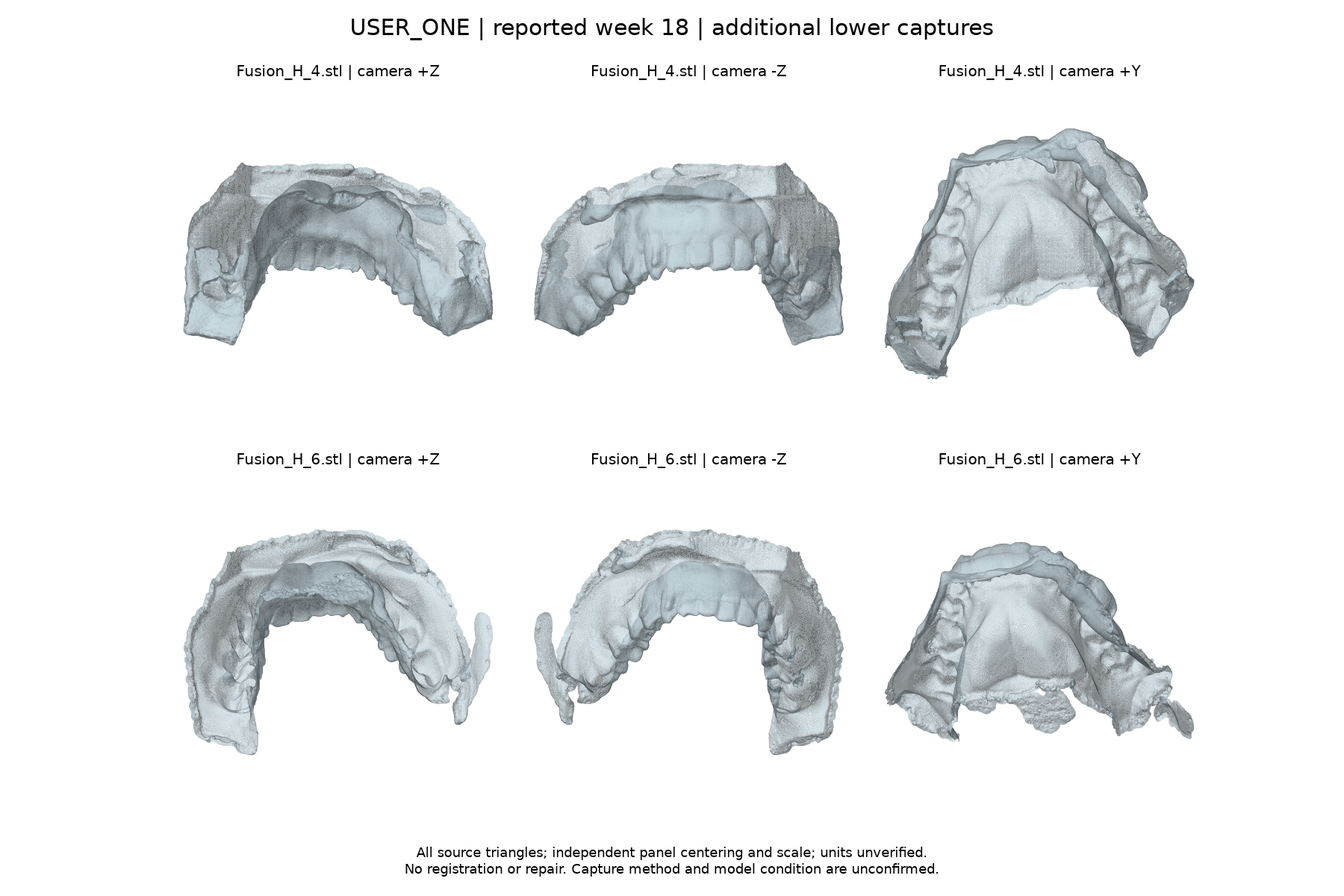
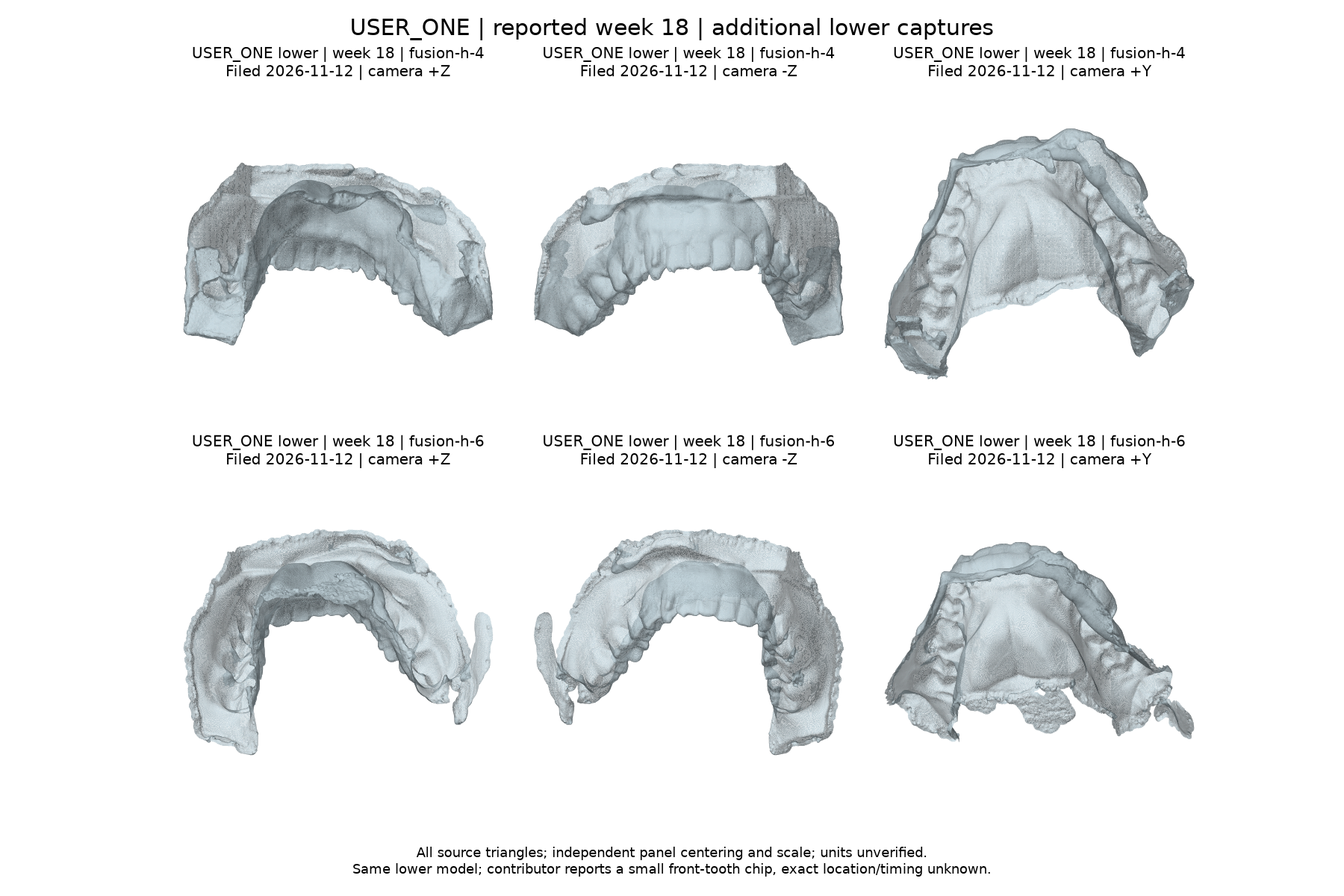
Clarify week 18 scan names and prioritize contributor annotation
Rename both lower captures with November 12 filing date, USER_ONE, arch, week, and capture ID while retaining original source names and exact bytes. Record contributor confirmation of a shared lower model with a small chip on an unidentified front tooth; refresh source-bound comparison records and linted findings.

Replace subjective TODO scores with measured evidence goals. Bring multi-visit and multi-capture intake plus basic editing forward, and specify partial boundary review, uncertainty/defect marking, source-bound corrections, and saved-review recovery. Document the existing 3D brush workflow and current limits; no new annotation UI behavior is claimed.

Validation: 96 Python tests and 2 region-edit tests pass; catalog and strict maintainability checks pass. Regenerate and visually inspect comparison figures; verify renamed files against previous committed bytes, links, hashes, private exclusion, and all finding lint gates.

diff --git a/datasets/spec-07b7031938c84b1a9c98517b8bc4cdd3/private/progress-02/captures/evaluate_captures.py b/datasets/spec-07b7031938c84b1a9c98517b8bc4cdd3/private/progress-02/captures/evaluate_captures.py
@@ -46,12 +46,13 @@ def render_views(scans):
     for row, scan in enumerate(scans):
         triangles = read_triangles(BUNDLE / scan["filename"], scan["sha256"])
         for ax, (permutation, signs, direction) in zip(axes[row], views):
-            title = f'{Path(scan["filename"]).name} | camera {direction}'
+            capture = Path(scan["filename"]).parent.name
+            title = f'USER_ONE lower | week 18 | {capture}\nFiled 2026-11-12 | camera {direction}'
             draw_view(ax, triangles, permutation, signs, title)
     fig.suptitle("USER_ONE | reported week 18 | additional lower captures", fontsize=18)
     fig.text(0.5, 0.025,
              "All source triangles; independent panel centering and scale; units unverified.\n"
-             "No registration or repair. Capture method and model condition are unconfirmed.",
+             "Same lower model; contributor reports a small front-tooth chip, exact location/timing unknown.",
              ha="center", fontsize=11)
     fig.subplots_adjust(top=0.91, bottom=0.09, hspace=0.12, wspace=0.03)
     fig.savefig(BUNDLE / "mesh-views.png", dpi=120)
@@ -61,6 +62,10 @@ def render_views(scans):
 def main():
     scans, records = inspect_captures()
     parent = json.loads((BUNDLE.parent / "source-metadata.json").read_text())
+    damage = {
+        capture: json.loads((BUNDLE / capture / "source-metadata.json").read_text())["capture"]["source_model_damage"]
+        for capture in CAPTURES
+    }
     report = {
         "schema": "opensource-ortho-scan-topology-v1",
         "specimen_id": parent["specimen_id"], "progress_record_id": "progress-02",
@@ -68,10 +73,11 @@ def main():
         "dependencies": {"numpy": np.__version__, "matplotlib": matplotlib.__version__},
         "method": "Exact-coordinate vertex deduplication; undirected edge incidence and vertex connectivity; float64 triangle areas; all original triangles",
         "input_geometry_modified": False, "scans": records,
+        "source_model_damage": damage,
         "not_assessed": ["self-intersections", "vertex manifoldness", "winding consistency",
                          "scanner accuracy", "anatomical fidelity", "complete anatomical coverage",
                          "physical scale", "bite accuracy", "cross-time registration",
-                         "capture method and model condition"],
+                         "capture method", "chip location and timing", "repair or trimming history"],
         "display": {
             "file": "mesh-views.png", "projection": "Independent orthographic views",
             "camera_directions": ["+Z", "-Z", "+Y"],

diff --git a/TODO.md b/TODO.md
@@ -1,6 +1,6 @@
 # Development TODO
 
-Updated: November 11, 2026. This backlog belongs to private development in
+Updated: November 12, 2026. This backlog belongs to private development in
 `john-lawniczak/OpenSourceOrtho-dev`. Follow
 [the private development and release workflow](docs/PRIVATE_DEVELOPMENT.md).
 Keep personal scans, CBCT pixels, and unpublished annotations out of public
@@ -12,37 +12,27 @@ completing it does not establish clinical equivalence or authorize physical use.
 
 ## Current assessment
 
-Overall: **7.00/10.00 as a research toolkit**. Visualization, correction workflows,
-and traceability are the strongest areas. Demonstrating the accuracy of
-automatically derived tooth movement remains the central gap.
+Visualization, correction workflows, and traceability are implemented. Measured
+accuracy of automatically derived tooth boundaries, identities, and motion is
+still the central gap. Prior subjective /10 ratings are retired as progress
+criteria; feature availability and evidence quality must be reported separately.
 
-These are engineering judgments about workflow maturity, not measured anatomical
-accuracy. Two decimal places are a reporting convention, not measurement precision.
-Recent shared-view and zoom improvements improve inspection; they do not validate
-tooth boundaries, matches, or motion.
+| Area | Current evidence/status | Next measured result |
+|---|---|---|
+| Source intake and units | Source hashes recorded; USER_ONE scale unverified | Verified scale provenance and rejected stale-source cases |
+| Boundary correction | 3D brush/split/merge/erase and JSON export exist | Reviewed face labels, gum leakage, boundary IoU, correction time |
+| Automatic segmentation | Local drafts and model adapter exist; trained dental model evaluation pending | Held-out boundary/identity/coverage comparison and correction effort |
+| Registration and correspondence | Fit and ambiguity diagnostics exist | Reference-frame sensitivity, identity errors, repeat-scan false motion |
+| Motion preview | Estimated intermediate poses exist; real pose accuracy unknown | Translation/rotation errors where independent reference poses exist |
+| Multi-visit records | Two-visit UI; additional captures stored privately | Multi-capture visit import and save/reopen round trips |
+| Manual editing | Existing movement controls | Multi-tooth edits, local/world axes, undo/redo, saved alternative comparison |
+| Recovery and review | Local case persistence exists | Correction recovery, source-bound review export, stale-result invalidation |
+| Anatomy, mechanics, and exports | Exploratory components; independent evidence incomplete | Input-specific geometry tests and separate physical experiments |
 
-| Tool / area | Rating / 10.00 | Main remaining gap |
-|---|---:|---|
-| Scan import and inspection | 7.75 | Difficult scans still require cleanup. |
-| Units and coordinate handling | 7.00 | USER_ONE's motion scale remains unverified. |
-| 3D viewing and navigation | 8.00 | Continue testing shared-camera inspection across arches, weeks, and screen sizes. |
-| Automatic surface segmentation | 6.00 | Draft boundaries can include gum or divide teeth incorrectly. |
-| Learned-model integration | 6.00 | Adapter is tested; no trained dental model is installed and anatomically benchmarked. |
-| Boundary and numbering corrections | 7.25 | Real-case correction burden is not measured. |
-| Cross-visit registration | 7.00 | Whole-arch fitting can absorb real movement; stable reference selection needs justification. |
-| Tooth correspondence between visits | 6.50 | Automatic tooth identity accuracy remains unmeasured. |
-| Weekly movement simulation | 6.75 | Intermediate positions and timing remain assumptions. |
-| Geometric target generation | 6.25 | Arch-form heuristics provide limited target reasoning. |
-| Staging and movement controls | 7.25 | Coupled movement modeling remains limited. |
-| Manual tooth editing | 7.25 | Guided movement controls remain limited. |
-| Contact and proximity checks | 6.25 | Closed-mesh containment and contact throughout motion remain gaps. |
-| Opposing-arch / bite review | 6.25 | Shared display placement does not establish a measured bite relationship. |
-| CBCT, root, and bone workflow | 6.00 | Anatomical identification and correction remain substantially manual. |
-| Two-visit cases, saving, and recovery | 7.25 | Storage and collaboration remain basic. |
-| Accuracy benchmarking | 7.25 | Independent real-data ground truth is insufficient. |
-| Local assistant and fit explanations | 7.00 | The helper explains metadata; it cannot independently inspect anatomy or validate matches. |
-| Shell generation and export checks | 6.75 | Physical fit and manufacturing performance remain unestablished. |
-| Tooth map, glossary, and guidance | 7.50 | References could connect more directly to case-specific correction tasks. |
+Every result must state corpus/version, sample count, denominator, units, coverage,
+and unavailable metrics. Keep development annotations separate from held-out
+independent reference labels. One contributor's corrections improve a draft but
+do not establish anatomical ground truth or a population accuracy estimate.
 
 ## Quality gaps this roadmap addresses
 
@@ -65,17 +55,19 @@ or a specification to reproduce proprietary implementations.
 
 ## Execution order and completion rules
 
-Use this order to address upstream errors before adding downstream complexity.
-Extend existing modules and workflows; do not rebuild implemented features.
+Phase numbers identify workstreams, not a requirement to finish every earlier
+phase first. Keep measurement contracts first, then develop visit intake and basic
+editing alongside segmentation/registration evaluation. Extend existing modules;
+do not rebuild implemented features.
 
 | Phase | Deliverable | Dependencies |
 |---|---|---|
 | 1 | Reproducible evidence and case contracts | Existing benchmark and case tools |
 | 2 | Measured segmentation and correction improvements | Phase 1 evaluation contracts |
 | 3 | Reliable reference frames and endpoint correspondence | Phases 1–2; reviewed masks can substitute for automatic masks |
-| 4 | General multi-visit observation and estimate tracking | Phases 1 and 3 |
+| 4 | Early multi-visit/multi-capture intake; later fitted tracking | Intake needs Phase 1 source contracts; comparisons need Phase 3 evidence |
 | 5 | Reviewed root/bone geometry and opposing-arch registration | Phases 1 and 3; can proceed alongside Phase 4 |
-| 6 | Coupled editing and motion-path geometry checks | Phases 3–5 for features consuming those inputs |
+| 6 | Early basic editing; later coupled/path geometry checks | Basic edits need explicit frames and revisions; anatomy-dependent checks need Phases 3–5 |
 | 7 | Evaluated simulation models and export geometry | Phase 6 |
 | 8 | Durable review, recovery, and handoff | Builds incrementally from Phase 1; integrates Phases 4–7 |
 
@@ -100,6 +92,13 @@ previews; show uncertainty, held regions, and missing inputs explicitly.
 - [ ] Add a review-package workflow for a small USER_ONE week 1/week 7 tooth subset:
   export masks and candidate identities, import independent corrections, and
   record review provenance without treating automatic fits as ground truth.
+- [ ] Start with a small contributor annotation session in the existing 3D editor:
+  paint crown faces, separate gum/context, correct identities, and save the JSON.
+  Record which teeth/surfaces were inspected, uncertainty, annotator role, and time.
+  Keep contributor labels distinct from independently reviewed reference labels.
+- [ ] Add per-tooth/partial review records, unknown-boundary and model-defect masks,
+  and source-bound comments; a single whole-scan checkbox cannot express partial
+  review. Preserve original meshes and distinguish damage from tooth anatomy.
 - [ ] Verify USER_ONE scale; record unknown units until supporting evidence exists.
 - [ ] Separate development, held-out, and repeat-scan cohorts. Split by subject for
   multi-subject data; label any USER_ONE-only evaluation as case-specific.
@@ -133,6 +132,10 @@ sensitivity result, not a patient error rate. Preserve
   detection, FDI proposals, and defect handling using measured failure cases.
 - [ ] Improve existing brush/split/merge/numbering correction where measured effort
   is highest; retain undo and source-bound edits after save/reload.
+- [ ] Improve collaborative annotation with a selected-tooth legend/highlight,
+  isolation/context toggle, visible-surface brush feedback, and saved viewpoints.
+  Prototype contour-to-surface labeling only after brush effort is measured;
+  screen-space lines must not silently label hidden or opposite surfaces.
 - [ ] Profile inference and correction costs before adding caching, workers, or
   mesh reduction; measure any accuracy loss from reduced geometry.
 
@@ -164,6 +167,15 @@ identity errors, repeat-scan false motion, and pose errors where truth is availa
 
 - [ ] Extend the two-visit workflow to an ordered series of visits with arch, date,
   reported treatment week, units, and source provenance; handle missing arches.
+  Begin this intake work alongside Phases 1–3; fitting evidence is not required
+  to retain or inspect an original observation.
+- [ ] Support multiple captures per visit/arch, with separate capture IDs, hashes,
+  acquisition versus contribution dates, and explicit active-input selection.
+  Retain alternatives without treating same-week captures as extra visits or
+  automatically replacing one with the newest or densest mesh.
+- [ ] Record whether repeat captures share a physical model and document model
+  damage/repair history. Same-model repeats can test capture consistency but
+  cannot establish undamaged anatomy or independent tooth-motion accuracy.
 - [ ] Maintain tooth identities across visits with reviewed corrections and explicit
   missing/uncertain links; compare adjacent and baseline-to-visit fits for drift.
 - [ ] Compare an observed visit with a user-selected authored stage in a justified
@@ -204,6 +216,9 @@ for their respective real-case claims. See [local CBCT review](docs/LOCAL_CBCT_R
 
 - [ ] Extend existing manual controls with multi-tooth selection, explicit local/world
   axes, pivots, arch-form edits, undo/redo, and deterministic regeneration.
+  Start basic editing alongside Phases 1–4; do not wait for CBCT or mechanics.
+- [ ] Save and compare alternative authored revisions without overwriting observed
+  scans, boundary annotations, or inferred scan-history motion.
 - [ ] Represent authored attachment/cut geometry and interproximal spacing requests
   as inspectable parameters; distinguish authored goals from generated proposals.
 - [ ] Evaluate target generation beyond arch-form heuristics on known geometry;
@@ -259,12 +274,46 @@ checks exclude unauthorized private assets. Record the actual hosted CI result.
 
 ## Immediate next coding increment
 
-Start with Phase 1's review-package round trip, stale-result detection, and benchmark
-report extensions using synthetic fixtures and existing USER_ONE candidates.
-In parallel with that coding, obtain independent annotations and confirm scale.
-Then run Phase 2 candidate comparisons and Phase 3 registration experiments against
-the same frozen evidence. Do not raise accuracy ratings solely because features
-or synthetic tests have been added.
+Deliver one complete research workflow:
+**import multiple visits/captures → correct identities and crown boundaries →
+inspect estimated motion → compare with observations → save and reopen**.
+
+1. Start a small USER_ONE contributor annotation session using the current editor.
+   Save source-bound corrections and record partial coverage/uncertainty; leave
+   the whole-scan reviewed checkbox off until the whole scan has been checked.
+2. Add review-package round trips, stale-result detection, and measured benchmark
+   reports. Obtain independent annotations and scale evidence alongside coding.
+3. Bring multi-visit/multi-capture intake, private local access, and recovery forward.
+   Do not expand public dataset allowlists to expose private contributions.
+4. Improve basic editing and annotation usability while comparing segmentation
+   candidates and registration choices against the same frozen reviewed corpus.
+5. Keep anatomy-dependent checks, mechanics, and manufacturing experiments later,
+   with their own data requirements and evidence milestones.
+
+**First acceptance demonstration:** reopen the exact original scan with saved
+labels; preserve tooth IDs, unreviewed areas, contributor provenance, and source
+hashes; reject corrections for a different capture. A renamed identical STL must
+retain valid labels. Missing truth stays unknown and does not disable exploratory
+previews. Do not raise accuracy claims based only on features or synthetic tests.
+
+## What a contributor can provide now
+
+- Original scans and visit/arch labels, with acquisition dates distinguished from
+  contribution dates; identify repeat scans of the same physical model.
+- Scanner/export unit settings or a documented measurement on the scanned model;
+  do not infer millimeters from tooth appearance alone.
+- A few carefully labeled tooth surfaces from several views, including tooth/gum
+  transitions and uncertain boundaries. Save the editor JSON, not just screenshots.
+- Model-defect descriptions and marked locations, including chips, repairs, and
+  trimming. Do not reconstruct missing tooth anatomy from a chipped model by guess.
+- Tooth-number corrections where known; otherwise record uncertainty and confirm
+  orientation/numbering before using labels for cross-visit correspondence.
+- Independent review of selected annotations when available. Reserve reviewed
+  evaluation cases from tuning and report contributor-only results as such.
+
+Use [the current boundary-review workflow](docs/REGION_CORRECTIONS.md) to begin.
+The editor supports surface painting today; automatic closed-contour filling,
+per-tooth review status, and explicit uncertainty/defect layers remain backlog work.
 
 Related records: [implementation phases](docs/TOOL_IMPROVEMENT_PHASES.md),
 [prior research workflow scorecard](docs/TOOL_SCORECARD.md),

diff --git a/datasets/spec-07b7031938c84b1a9c98517b8bc4cdd3/private/progress-02/captures/quality-assessment.md b/datasets/spec-07b7031938c84b1a9c98517b8bc4cdd3/private/progress-02/captures/quality-assessment.md
@@ -1,7 +1,7 @@
 # Week 18 additional lower capture comparison
 
 Private USER_ONE data; evaluated November 12, 2026. This assessment covers
-`Fusion_H_4.stl` and `Fusion_H_6.stl`, separate captures at the same reported
+`2026-11-12_USER_ONE_lower_week-18_fusion-h-4.stl` and `2026-11-12_USER_ONE_lower_week-18_fusion-h-6.stl`, separate captures at the same reported
 week 18 visit. Both original files are retained without repair or registration.
 
 ## Measured file properties
@@ -18,6 +18,9 @@ week 18 visit. Both original files are retained without repair or registration.
 | Non-finite face records | 0 | 0 |
 | Binary STL length valid | Yes | Yes |
 
+Repository filenames use the November 12 contribution/filing date; acquisition
+dates remain unverified. Original source filenames are retained in metadata.
+
 Both SHA-256 hashes match the per-capture manifests and the Desktop source
 files. Boundary edges show that neither surface is closed. Counts use exact
 coordinate deduplication, without tolerance welding. Scale remains unverified.
@@ -31,9 +34,11 @@ export. They remain unverified; the gate checks language, not anatomy.
 
 **Peripheral surface appearance.** In the independent rendered views, Fusion_H_4 appears more compact around the outer margins; Fusion_H_6 shows more conspicuous projecting peripheral surfaces. Both include broad sheet-like surfaces beyond the crown-like regions. Camera orientation, independently fitted panel scale, and approximate depth sorting limit this visual comparison. The views do not determine which scan better reproduces the original teeth.
 
-**Retain both captures for region review.** Fusion_H_4 is worth inspecting first for peripheral cleanup because of its more compact visual outline and lower boundary-edge count, but this is a tentative workflow preference, not a ranking of tooth-surface fidelity. Preserve both original captures. Review corresponding crown boundaries and capture provenance before selecting a segmentation input; do not transfer the original pair damage report to these files without confirmation.
+**Retain both captures for region review.** Fusion_H_4 is worth inspecting first for peripheral cleanup because of its more compact visual outline and lower boundary-edge count, but this is a tentative workflow preference, not a ranking of tooth-surface fidelity. Preserve both original captures. Review corresponding crown boundaries and capture provenance before selecting a segmentation input; mark the contributor-reported front-tooth model chip separately from crown boundaries. Exact tooth identity and chip timing remain unknown.
 
 **Reference evidence remains missing.** No verified scale, independently reviewed tooth surfaces, or common anatomical registration is available for this comparison. Boundary counts depend on scan margins and tessellation; zero-area faces and edge incidence describe topology rather than tooth accuracy. Neither capture establishes tooth movement or reference anatomy. Self-intersections, winding, and vertex manifoldness were not assessed.
+
+**Shared chipped-model limitation.** The contributor confirms both additional captures share one physical lower model and reports a small chip on an unidentified lower front tooth. Agreement between H4 and H6 can describe capture consistency but cannot establish the missing undamaged surface. Keep the chip region unreviewed until its location is marked; do not interpret it as actual tooth damage or tooth movement.
 
 ## Evidence and reproduction
 

diff --git a/docs/REGION_CORRECTIONS.md b/docs/REGION_CORRECTIONS.md
@@ -20,3 +20,46 @@ workflow described in `segmentation-learned-backend.md`. No new model weights or
 reviewed corpus have been supplied in this change, so no superiority score is
 claimed. The independent motion scorer in `MOTION_BENCHMARK.md` complements that
 boundary benchmark with correspondence and pose errors.
+
+## A first contributor review session
+
+With `orthoplan serve` running, open
+[Review tooth regions](http://127.0.0.1:8000/region-review.html).
+Start with a few clearly visible teeth, rather than marking an entire arch as
+reviewed at once.
+
+1. Set **Sample arch** to **Lower**, then **Load USER_ONE baseline** to work from
+   existing colored draft labels. For a private week 18 capture, set **Lower**
+   first and choose its local STL through **Own STL**. A newly loaded own scan
+   starts gray/unlabeled; import matching correction JSON if available. Private
+   files do not need to be added to the public catalog or asset allowlist.
+2. Use **Rotate / zoom** to inspect the chewing, inner, and outer surfaces.
+   Establish orientation and tooth numbering before painting. The editor uses
+   FDI labels; its default From/To values are upper-arch values, so choose valid
+   lower-arch IDs when reviewing the lower arch. Uncertain identities need notes,
+   not guesses made to complete the labels.
+3. Choose **Brush labels** and **To tooth**, then paint the visible crown surface.
+   Use a smaller radius near tooth/gum transitions and neighboring teeth. This
+   paints mesh faces; drawing only an outline does not fill the enclosed crown.
+   Rotate and check both sides. The position/normal filter reduces accidental
+   opposite-surface painting but does not guarantee correct anatomical boundaries.
+4. Use **Erase to context** to remove gum or extra surface from a tooth label;
+   **Split selected source** transfers only the From region under the brush.
+   **Merge from → to** changes the entire source region. Undo mistakes promptly.
+   Mark uncertain boundaries and model defects in accompanying notes/view images;
+   the current editor has no dedicated uncertainty or defect layer.
+5. Click **Save corrections** frequently. For a partial session, leave **I checked
+   these tooth boundaries and numbers** unchecked. Record the inspected tooth IDs,
+   surfaces, uncertainty, annotator role, and time alongside the JSON. The current
+   checkbox describes the whole scan, not only the last painted tooth. Export
+   preserves labels and source binding, not the undo stack or a detailed audit log.
+6. Reload the same STL and correction JSON to check the round trip. Renaming an
+   identical STL preserves its hash; a different capture needs separate labels.
+   To collaborate here, provide the saved correction file's local path and the
+   tooth/view you want reviewed. The assistant can inspect the saved artifact;
+   it does not receive a live stream of pointer movements or unsaved brush edits.
+
+Contributor markings remain contributor annotations. Independent review and
+measured disagreement are still needed before using them as benchmark reference
+labels. Defects in a scanned model must not be painted into imagined undamaged
+tooth anatomy. Additional annotation controls are tracked in `TODO.md`.

diff --git a/datasets/spec-07b7031938c84b1a9c98517b8bc4cdd3/private/progress-02/README.md b/datasets/spec-07b7031938c84b1a9c98517b8bc4cdd3/private/progress-02/README.md
@@ -55,19 +55,23 @@ neither replaces the original pair or the other capture.
 
 | Capture | Original file | Manifest | Source metadata |
 | --- | --- | --- | --- |
-| Fusion H4 | [Fusion_H_4.stl](captures/fusion-h-4/Fusion_H_4.stl) | [Manifest](captures/fusion-h-4/manifest.json) | [Provenance](captures/fusion-h-4/source-metadata.json) |
-| Fusion H6 | [Fusion_H_6.stl](captures/fusion-h-6/Fusion_H_6.stl) | [Manifest](captures/fusion-h-6/manifest.json) | [Provenance](captures/fusion-h-6/source-metadata.json) |
+| Fusion H4 | [2026-11-12_USER_ONE_lower_week-18_fusion-h-4.stl](captures/fusion-h-4/2026-11-12_USER_ONE_lower_week-18_fusion-h-4.stl) | [Manifest](captures/fusion-h-4/manifest.json) | [Provenance](captures/fusion-h-4/source-metadata.json) |
+| Fusion H6 | [2026-11-12_USER_ONE_lower_week-18_fusion-h-6.stl](captures/fusion-h-6/2026-11-12_USER_ONE_lower_week-18_fusion-h-6.stl) | [Manifest](captures/fusion-h-6/manifest.json) | [Provenance](captures/fusion-h-6/source-metadata.json) |
 
 The additional captures have a separate [comparative evaluation](captures/quality-assessment.md),
 [topology inventory](captures/mesh-quality.json), and
 [surface views](captures/mesh-views.png). H4 contains 581,144 triangles; H6 contains
 587,840. Both preserve every source byte. Acquisition date, scale, capture method,
-model condition, and anatomical registration remain unverified for both.
+and anatomical registration remain unverified for both. The contributor confirms
+H4 and H6 share the same physical lower model, with a small chip on an unidentified
+front tooth. The chip location, timing, and any repair/trimming history are not
+yet mapped. This reports model damage, not actual tooth damage.
 
 Both binary STLs have valid declared record lengths and no non-finite face
 records. H4 is 29,057,284 bytes; H6 is 29,392,084 bytes. These are file checks,
-not a surface-fidelity assessment. November 12 is the contribution date. The
-original pair's damage report, topology inventory, and views do not assess these
+not a surface-fidelity assessment. November 12 in the filenames is the
+contribution/filing date, not a verified acquisition date. The original pair's
+damage report, topology inventory, and views do not assess these
 captures; those artifacts and their reproduction script retain their original
 two-scan scope.
 
